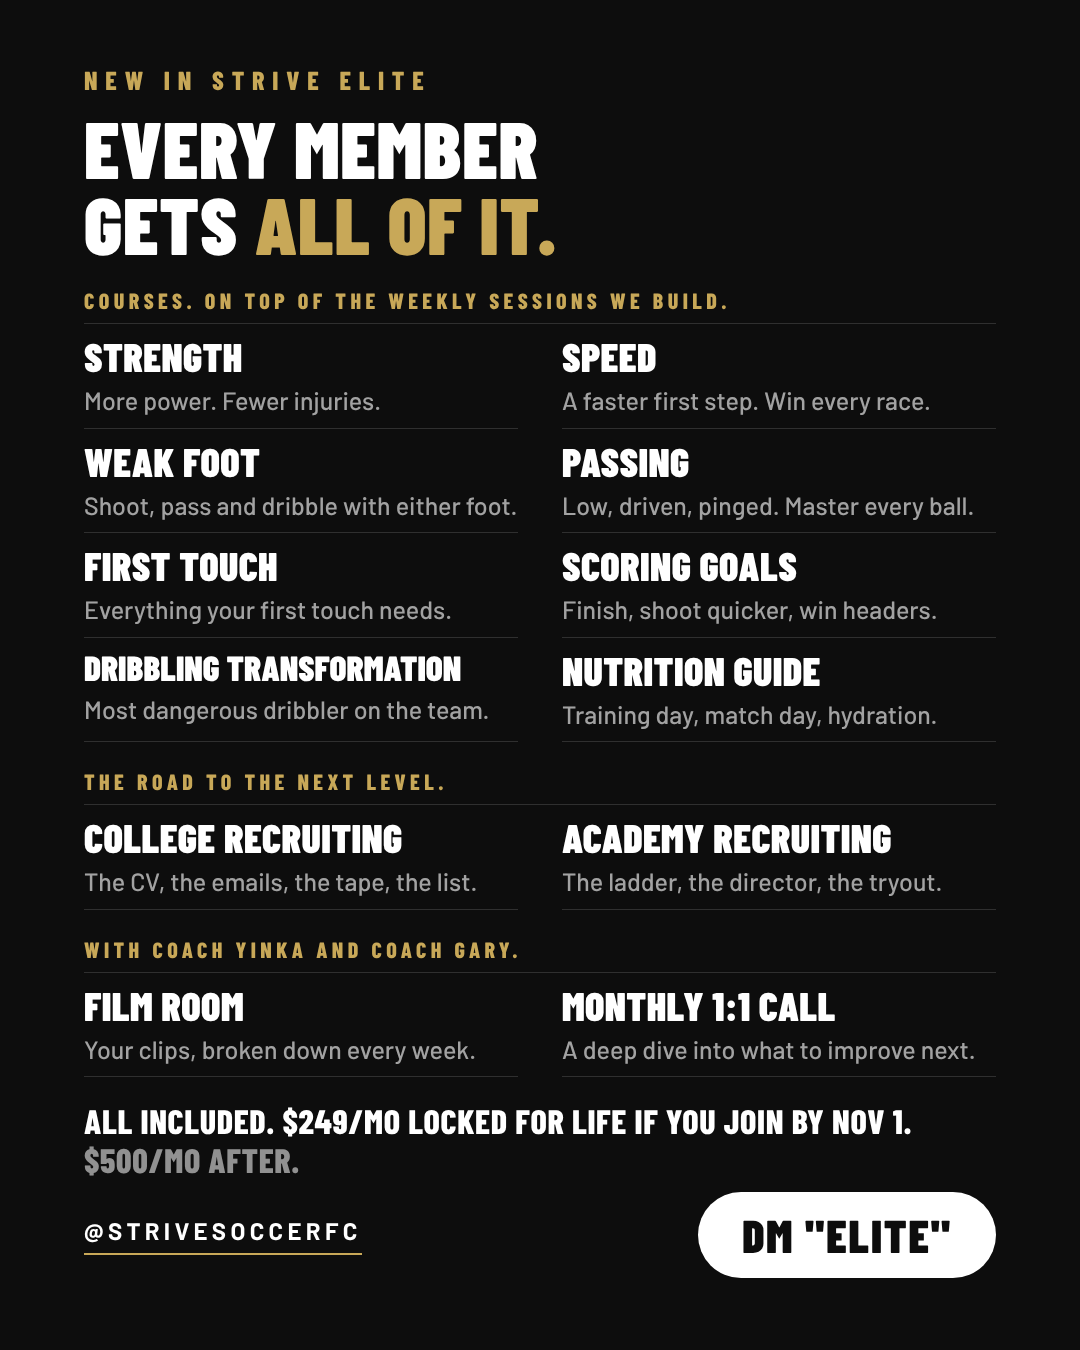
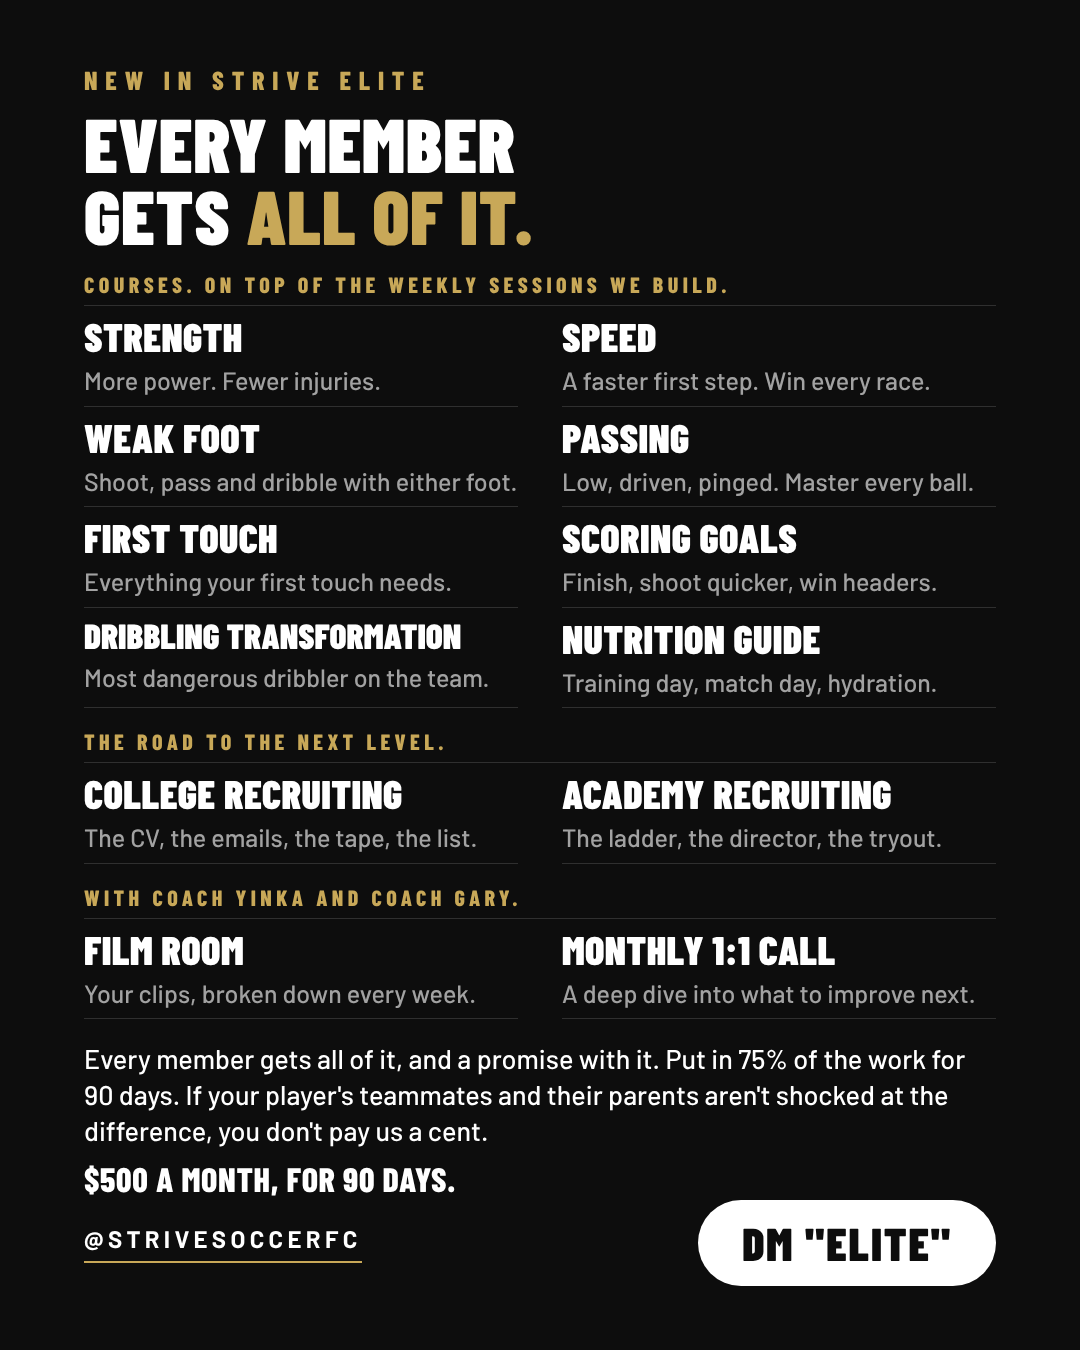
Offer post: the 90-day promise, three slides, $500 a month for 90 days
Claude-Session: https://claude.ai/code/session_011JsCTTjCbUkHbTuWTKQSXJ

Changed region(s): [[0.0611, 0.0622, 0.9167, 0.9333], [0.6417, 0.8711, 0.9167, 0.9644]]

diff --git a/marketing/announcement/offer-post/program.html b/marketing/announcement/offer-post/program.html
@@ -1,0 +1,45 @@
+<!doctype html><meta charset="utf-8">
+<title>Strive Elite, who it is for (1080x1350)</title>
+<link rel="stylesheet" href="../../covers/strive-elite-meeting/fonts.css">
+<style>
+/* Slide 3 of the offer post: who it is for, how 90 days run, the price.
+   Coach Yinka, Nov 4 2026: "this program is for ECNL and MLS Next
+   players looking to reach the next level. Designed by players who have
+   done just that." Price $500 a month for 90 days (his Oct 12 list
+   price, chosen for the program on his "prices of your choice"). */
+*{box-sizing:border-box;margin:0;padding:0}
+html,body{width:1080px;height:1350px;background:#0d0d0d;overflow:hidden}
+body{font-family:'Barlow',sans-serif;color:#fff;position:relative;padding:84px 84px 0}
+.gold{color:#c8a858}
+.eyebrow{font-family:'Barlow Condensed';font-weight:800;font-size:26px;letter-spacing:.3em;text-transform:uppercase;color:#c8a858}
+h1{font-family:'Barlow Condensed';font-weight:900;font-size:74px;line-height:.95;text-transform:uppercase;margin-top:22px;letter-spacing:.01em}
+.sub{margin-top:22px;font-size:30px;line-height:1.3;font-weight:500;max-width:900px}
+.sec{font-family:'Barlow Condensed';font-weight:800;font-size:22px;letter-spacing:.2em;text-transform:uppercase;color:#c8a858;margin:40px 0 0;padding-bottom:10px;border-bottom:1px solid rgba(255,255,255,.14)}
+.step{display:flex;gap:28px;align-items:flex-start;padding:16px 0 14px;border-bottom:1px solid rgba(255,255,255,.14)}
+.n{font-family:'Barlow Condensed';font-weight:800;font-size:26px;letter-spacing:.14em;color:#c8a858;padding-top:8px;width:54px;flex:none}
+.step b{display:block;font-family:'Barlow Condensed';font-weight:900;font-size:40px;line-height:1;text-transform:uppercase}
+.step p{margin-top:8px;font-size:25px;line-height:1.3;color:rgba(255,255,255,.62)}
+.price{margin-top:34px;display:flex;align-items:baseline;gap:22px}
+.price .big{font-family:'Barlow Condensed';font-weight:900;font-size:84px;line-height:1;letter-spacing:.01em}
+.price .small{font-family:'Barlow Condensed';font-weight:800;font-size:30px;line-height:1.15;text-transform:uppercase;letter-spacing:.04em;color:rgba(255,255,255,.62)}
+.bar{position:absolute;left:84px;right:84px;bottom:72px;display:flex;align-items:center;justify-content:space-between}
+.cta{background:#fff;color:#0d0d0d;font-family:'Barlow Condensed';font-weight:900;font-size:46px;letter-spacing:.04em;text-transform:uppercase;padding:20px 44px;border-radius:999px;line-height:1}
+.handle{font-weight:700;font-size:24px;letter-spacing:.18em;text-transform:uppercase;color:#fff}
+.handle:after{content:"";display:block;height:2px;width:100%;background:#c8a858;margin-top:8px}
+</style>
+
+<div class="eyebrow">Who it's for</div>
+<h1>ECNL and MLS NEXT players<br>who want <span class="gold">the next level.</span></h1>
+<p class="sub">Designed by players who have done just that. Coach Yinka and Coach Gary built it together, and Coach Yinka builds every week.</p>
+
+<div class="sec">How 90 days run</div>
+<div class="step"><div class="n">01</div><div><b>A new week every Monday</b><p>Built around your player. Every drill on video, every session about 40 minutes.</p></div></div>
+<div class="step"><div class="n">02</div><div><b>The courses, after the week's work</b><p>Pick the weakness, work it. Strength, speed, weak foot, passing, touch, finishing, dribbling.</p></div></div>
+<div class="step"><div class="n">03</div><div><b>Us, every week</b><p>Film Room on your player's clips every week. A 1:1 call every month.</p></div></div>
+
+<div class="price"><div class="big">$500<span class="gold">/mo</span></div><div class="small">For 90 days. All included.<br>Same-day refund, and the promise.</div></div>
+
+<div class="bar">
+  <div class="handle">@strivesoccerfc</div>
+  <div class="cta">DM "ELITE"</div>
+</div>

diff --git a/marketing/announcement/offer-post/post.html b/marketing/announcement/offer-post/post.html
@@ -9,19 +9,20 @@
 html,body{width:1080px;height:1350px;background:#0d0d0d;overflow:hidden}
 body{font-family:'Barlow',sans-serif;color:#fff;position:relative;padding:64px 84px 0}
 .gold{color:#c8a858}
-.sec{font-family:'Barlow Condensed';font-weight:800;font-size:22px;letter-spacing:.2em;text-transform:uppercase;color:#c8a858;margin:26px 0 0;padding-bottom:10px;border-bottom:1px solid rgba(255,255,255,.14)}
+.sec{font-family:'Barlow Condensed';font-weight:800;font-size:22px;letter-spacing:.2em;text-transform:uppercase;color:#c8a858;margin:20px 0 0;padding-bottom:8px;border-bottom:1px solid rgba(255,255,255,.14)}
 .grid .item:nth-child(-n+2){border-top:0}
-.sec:first-of-type{margin-top:30px}
+.sec:first-of-type{margin-top:24px}
 .eyebrow{font-family:'Barlow Condensed';font-weight:800;font-size:26px;letter-spacing:.3em;text-transform:uppercase;color:#c8a858}
-h1{font-family:'Barlow Condensed';font-weight:900;font-size:80px;line-height:.95;text-transform:uppercase;margin-top:14px;letter-spacing:.01em}
+h1{font-family:'Barlow Condensed';font-weight:900;font-size:76px;line-height:.95;text-transform:uppercase;margin-top:12px;letter-spacing:.01em}
 .grid{margin-top:0;display:grid;grid-template-columns:1fr 1fr;column-gap:44px}
-.item{padding:12px 0 11px;border-top:1px solid rgba(255,255,255,.14)}
+.item{padding:10px 0 9px;border-top:1px solid rgba(255,255,255,.14)}
 .item b{display:block;font-family:'Barlow Condensed';font-weight:900;font-size:40px;line-height:1;text-transform:uppercase;letter-spacing:.01em}
 .item p{margin-top:8px;font-size:25px;line-height:1.3;color:rgba(255,255,255,.62)}
 .item.last{border-bottom:1px solid rgba(255,255,255,.14)}
-.all{margin-top:24px;font-family:'Barlow Condensed';font-weight:800;font-size:34px;line-height:1.15;text-transform:uppercase;letter-spacing:.02em}
-.all span{color:rgba(255,255,255,.55);font-weight:700}
-.bar{position:absolute;left:84px;right:84px;bottom:72px;display:flex;align-items:center;justify-content:space-between}
+.all{margin-top:22px;font-size:27px;line-height:1.32;color:#fff;font-weight:500}
+.price{margin-top:12px;font-family:'Barlow Condensed';font-weight:800;font-size:34px;line-height:1.1;text-transform:uppercase;letter-spacing:.02em}
+.price span{color:#c8a858}
+.bar{position:absolute;left:84px;right:84px;bottom:64px;display:flex;align-items:center;justify-content:space-between}
 .cta{background:#fff;color:#0d0d0d;font-family:'Barlow Condensed';font-weight:900;font-size:46px;letter-spacing:.04em;text-transform:uppercase;padding:20px 44px;border-radius:999px;line-height:1}
 .handle{font-weight:700;font-size:24px;letter-spacing:.18em;text-transform:uppercase;color:#fff}
 .handle:after{content:"";display:block;height:2px;width:100%;background:#c8a858;margin-top:8px}
@@ -52,7 +53,8 @@ h1{font-family:'Barlow Condensed';font-weight:900;font-size:80px;line-height:.95
   <div class="item last"><b>Monthly 1:1 Call</b><p>A deep dive into what to improve next.</p></div>
 </div>
 
-<p class="all">All included. $249/mo locked for life if you join by Nov 1. <span>$500/mo after.</span></p>
+<p class="all">Every member gets all of it, and a promise with it. Put in 75% of the work for 90 days. If your player's teammates and their parents aren't shocked at the difference, you don't pay us a cent.</p>
+<p class="price">$500 a month, for 90 days.</p>
 
 <div class="bar">
   <div class="handle">@strivesoccerfc</div>

diff --git a/marketing/announcement/offer-post/promise.html b/marketing/announcement/offer-post/promise.html
@@ -1,0 +1,39 @@
+<!doctype html><meta charset="utf-8">
+<title>The 90-Day Promise (1080x1350)</title>
+<link rel="stylesheet" href="../../covers/strive-elite-meeting/fonts.css">
+<style>
+/* Slide 2 of the offer post. The promise, big, in full sentences. Coach
+   Yinka's shape (Nov 4 2026): do 75% of the work for 90 days; if the
+   people around the player aren't shocked, you don't pay, and we keep
+   working until they are. */
+*{box-sizing:border-box;margin:0;padding:0}
+html,body{width:1080px;height:1350px;background:#0d0d0d;overflow:hidden}
+body{font-family:'Barlow',sans-serif;color:#fff;position:relative;padding:84px 84px 0}
+.gold{color:#c8a858}
+.eyebrow{font-family:'Barlow Condensed';font-weight:800;font-size:26px;letter-spacing:.3em;text-transform:uppercase;color:#c8a858}
+h1{font-family:'Barlow Condensed';font-weight:900;font-size:120px;line-height:.92;text-transform:uppercase;margin-top:22px;letter-spacing:.01em}
+.rule{width:120px;height:3px;background:#c8a858;margin:44px 0 40px}
+.p{font-size:44px;line-height:1.28;font-weight:500}
+.p+.p{margin-top:30px}
+.p b{font-weight:700;color:#c8a858}
+.note{margin-top:48px;font-size:26px;line-height:1.4;color:rgba(255,255,255,.62);max-width:860px}
+.bar{position:absolute;left:84px;right:84px;bottom:72px;display:flex;align-items:center;justify-content:space-between}
+.cta{background:#fff;color:#0d0d0d;font-family:'Barlow Condensed';font-weight:900;font-size:46px;letter-spacing:.04em;text-transform:uppercase;padding:20px 44px;border-radius:999px;line-height:1}
+.handle{font-weight:700;font-size:24px;letter-spacing:.18em;text-transform:uppercase;color:#fff}
+.handle:after{content:"";display:block;height:2px;width:100%;background:#c8a858;margin-top:8px}
+</style>
+
+<div class="eyebrow">Strive Elite</div>
+<h1>The 90-day<br><span class="gold">promise.</span></h1>
+<div class="rule"></div>
+
+<p class="p">Put in <b>75% of the work</b> we give your player for 90 days.</p>
+<p class="p">If their teammates and their parents aren't coming up to you <b>shocked</b> at how good they've gotten, <b>you don't pay us a cent.</b></p>
+<p class="p">And we keep working with your player, free, until they are.</p>
+
+<p class="note">We can say this because we see every session your player does. The work is tracked in the app, so the 75% is a number, not an opinion. The result is judged by the people who watch them play, not by us.</p>
+
+<div class="bar">
+  <div class="handle">@strivesoccerfc</div>
+  <div class="cta">DM "ELITE"</div>
+</div>

diff --git a/marketing/announcement/strive-elite-offer-post.md b/marketing/announcement/strive-elite-offer-post.md
@@ -1,4 +1,4 @@
-# Strive Elite, what we added (Nov 1 2026)
+# Strive Elite, what we added (Nov 1 2026; the 90-day offer Nov 4)
 
 Editable copy: https://claude.ai/artifact/XqbbitJT7za8HNkan4EDw8. This
 file is the record. Coach Yinka's direction Nov 1: the post shows the
@@ -57,10 +57,47 @@ A deep dive into what to improve next and exactly how to work on it.
 DRIBBLING TRANSFORMATION
 Thirty days of work to become the silkiest, most dangerous dribbler on the team.
 
-All included. $249 a month, locked for life, if you join by November 1. $500 after.
+Every member gets all of it, and a promise with it. Put in 75% of the work for 90 days. If your player's teammates and their parents aren't shocked at the difference, you don't pay us a cent. And we keep working with your player, free, until they are.
+
+For ECNL and MLS NEXT players who want the next level. Designed by players who have done just that.
+
+$500 a month, for 90 days. All included.
 
 DM ELITE.
 ```
+
+## The three slides (Nov 4 2026)
+
+1. post.png: the post above, closing on the Option 3 promise line and
+   "$500 a month, for 90 days."
+2. promise.png: THE 90-DAY PROMISE. "Put in 75% of the work we give
+   your player for 90 days. If their teammates and their parents aren't
+   coming up to you shocked at how good they've gotten, you don't pay
+   us a cent. And we keep working with your player, free, until they
+   are." Small line: the work is tracked in the app, so the 75% is a
+   number; the result is judged by the people who watch them play.
+3. program.png: WHO IT'S FOR. "ECNL and MLS NEXT players who want the
+   next level. Designed by players who have done just that." How 90
+   days run (a new week every Monday; the courses after the week's
+   work; Film Room every week, a 1:1 call every month). $500/mo for 90
+   days, all included, same-day refund, and the promise.
+
+Render: `node render.mjs promise.html promise.png` (same for the others).
+
+THE PRICE, chosen on Coach Yinka's "prices of your choice" (Nov 4): $500
+a month for 90 days. It is the list price he stamped Oct 12 for Nov 2
+on; the Nov 1 founding window has closed; the value stack prices the
+month at $2,320 of coaching at his own $80 rate; Film Room every week
+and a call every month cap how many families two coaches can serve, so
+revenue per family has to carry the promise; ECNL and MLS NEXT families
+already pay club fees in that range (FVA Union about $4,245 a year in
+the Sept 14 research). No pay-in-full price on the post; that stays a
+call-only option if he wants one.
+
+THE PROMISE MECHANICS, his to stamp before the first family joins: the
+75% is sessions done over the 90 days as the app counts them (courses
+are not tracked); "you don't pay a cent" means every month refunded at
+day 90 on the parent's word; "we keep working, free" has no cap stated.
 
 ## The story version
 
@@ -80,7 +117,7 @@ Film Room. Your clips, broken down every week.
 Monthly 1:1 call. A deep dive into what to improve next.
 Dribbling Transformation. Most dangerous dribbler on the team.
 
-$249 a month locked for life if you join by Nov 1. DM ELITE.
+Do 75% of the work for 90 days. If the people around your player aren't shocked, you don't pay. $500 a month. DM ELITE.
 ```
 
 Flags: the General Nutrition Guide is live (Nov 1). SCORING GOALS (first called Finishing in the

diff --git a/CLAUDE.md b/CLAUDE.md
@@ -3118,6 +3118,41 @@ commit.
       Recruiting), "WITH COACH YINKA AND COACH GARY." (Film Room,
       Monthly 1:1 Call). Headline and rows tightened to fit. Sent as a
       proposal; his to keep or change.
+- [x] DECIDED + BUILT Nov 4 2026, THE 90-DAY OFFER (Coach Yinka: "Now
+      it's November 4th so the text at the bottom needs to go with our
+      new irresistible offer ... make it a 3-month program, promise a
+      tangible result ... if you do 75% of what we assign you and
+      teammates and parents aren't coming up to you shocked about how
+      good you've gotten, you don't pay us a single cent and we'll
+      continue working for you until that happens"; then "Option 3";
+      then "send the final slide deck with updated prices ... prices of
+      your choice ... this program is for ECNL and MLS Next players
+      looking to reach the next level. Designed by players who have
+      done just that"): SUPERSEDES the Nov 1 founding window ($249
+      locked for life by Nov 1, now closed) and the Oct 14 2-week proof
+      guarantee as the public promise. STRIVE ELITE IS A 90-DAY PROGRAM
+      with THE 90-DAY PROMISE: put in 75% of the work for 90 days; if
+      the player's teammates and their parents aren't shocked at the
+      difference, the family doesn't pay a cent, and we keep working
+      free until they are. PRICE, MY CALL on his word: $500 a month for
+      90 days (his Oct 12 list price; the $2,320 value stack at his $80
+      rate; Film Room weekly and a monthly call cap families per coach;
+      ECNL and MLS NEXT club fees already sit in that range). THREE
+      SLIDES in marketing/announcement/offer-post/ (post.png with the
+      Option 3 close and "$500 a month, for 90 days."; promise.png;
+      program.png with "ECNL and MLS NEXT players who want the next
+      level. Designed by players who have done just that.", how 90 days
+      run, $500/mo), render.mjs now takes page and output args; the
+      caption in strive-elite-offer-post.md rewritten with the promise
+      and the price and the reasoning recorded there. Sent. STILL HIS
+      TO STAMP before the first family joins: 75% = sessions done as
+      the app counts them (courses untracked); "don't pay a cent" =
+      every month refunded at day 90 on the parent's word; no cap on
+      the free continuation; Stripe still carries the $350 standard
+      price and needs $500. COPY DEBT: /demo offer block still says
+      $249 locked by Nov 1 and $500 from Nov 2 with no promise; the
+      outro's offer block says the same; the ad 5 image and the deck's
+      price slide too. Nothing posted; no player data touched.
 
 ## Growth target (stamped Sept 19, Coach Yinka's own call)
 
